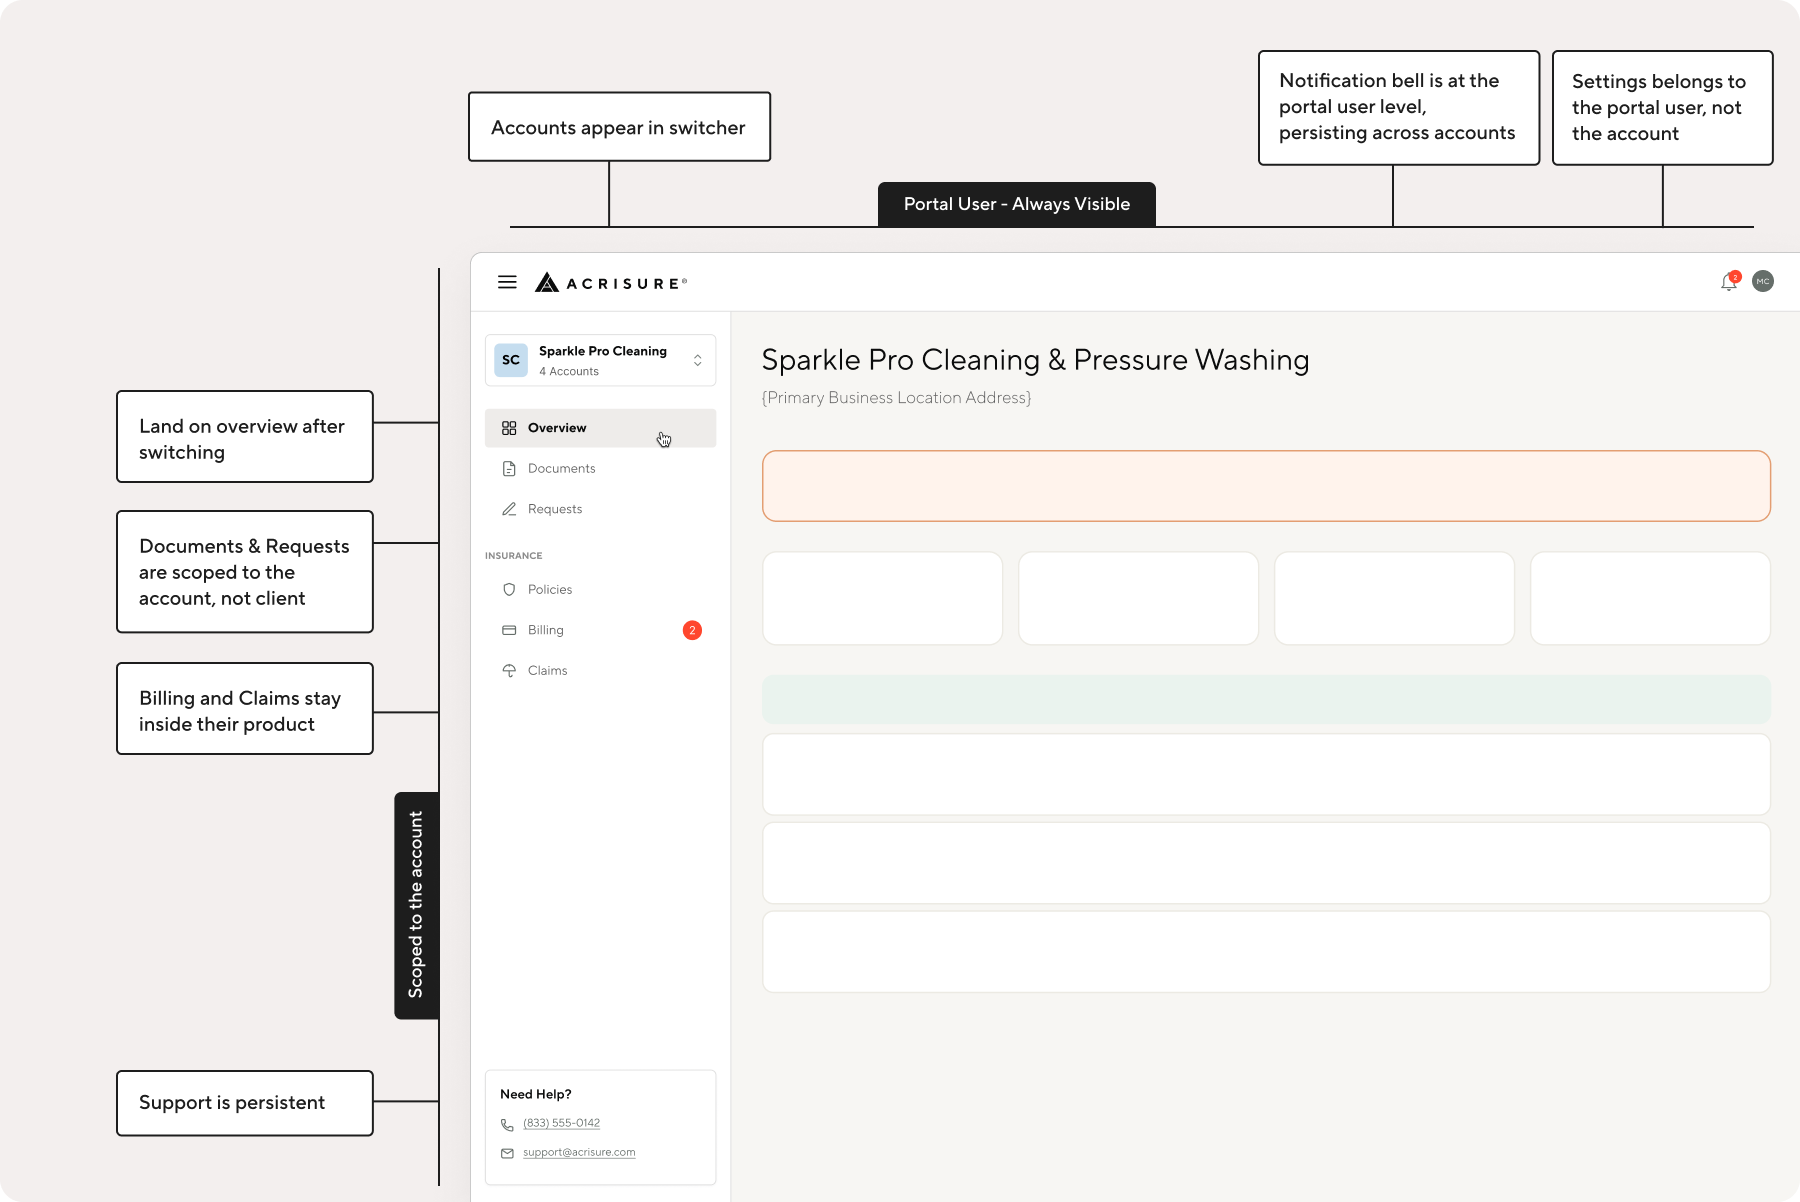
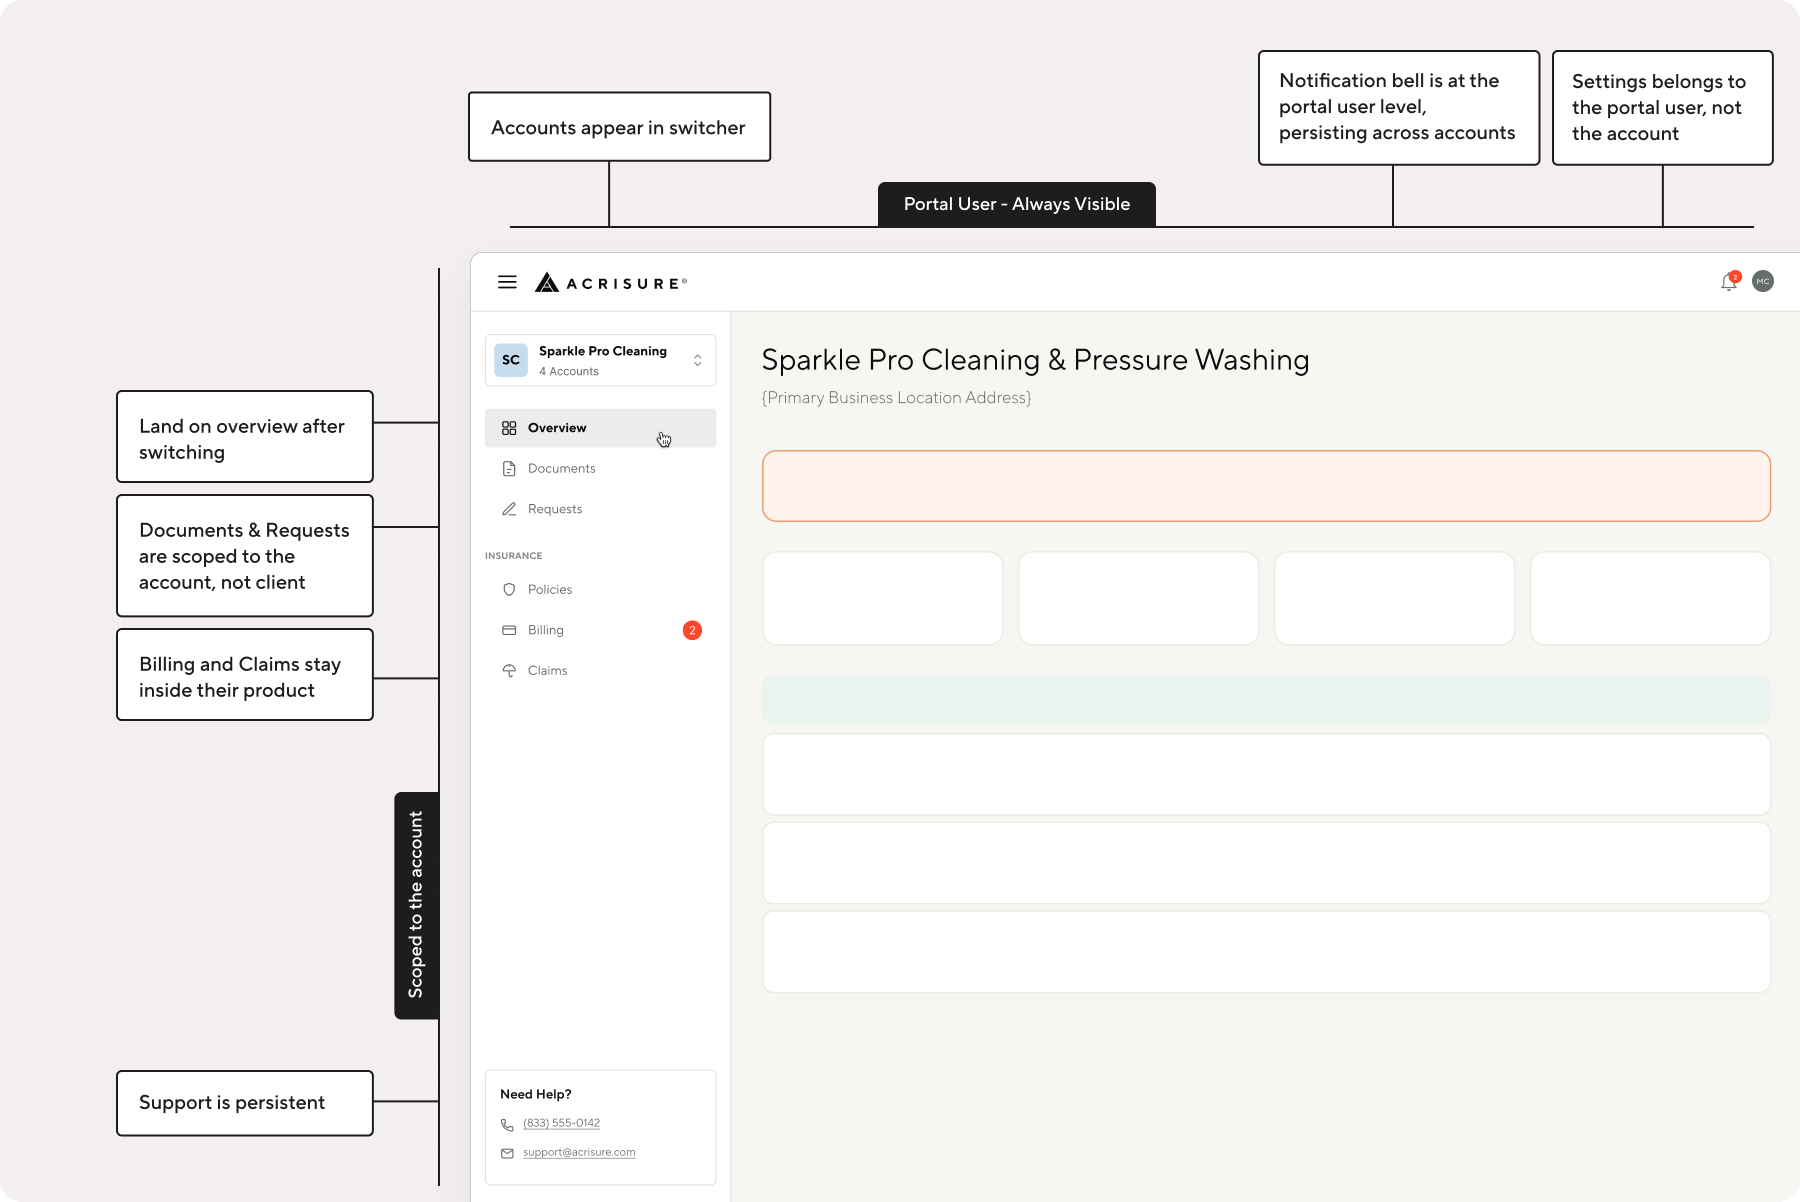
Add launch-nav screenshot to Decision Two; sync Client Portal punctuation to doc

Changed region(s): [[0.0622, 0.4002, 0.2178, 0.6156]]

diff --git a/client-portal.html b/client-portal.html
@@ -85,6 +85,8 @@
   .back-pill { display: inline-flex; align-items: center; gap: 6px; font-size: 13px; font-weight: 500; color: var(--ink); background: var(--pill-bg); border-radius: 100px; padding: 9px 18px; text-decoration: none; margin: 36px 0 0; }
 
   h2 { font-size: 23px; font-weight: 600; letter-spacing: -0.01em; margin: 56px 0 16px; }
+  h3 { font-size: 18px; font-weight: 600; letter-spacing: -0.005em; margin: 40px 0 10px; }
+  h2 + h3 { margin-top: 0; }
   h4 { font-size: 15px; font-weight: 600; margin: 0 0 4px; }
   p { font-size: 16px; line-height: 1.7; color: var(--ink); margin-bottom: 16px; }
   p.soft { color: var(--ink-soft); }
@@ -269,7 +271,7 @@
 
 
     <h2>Decision One: Policy Archetype Models</h2>
-    <p>Acrisure's portal needs to show hundreds of distinct policy types: Homeowners, Auto, BOP, Workers' Comp, and more. Designing each one from scratch meant new design work every time a policy type got added.</p>
+    <p>Acrisure's portal needs to show hundreds of distinct policy types, Homeowners, Auto, BOP, Workers' Comp, and more. Designing each one from scratch meant new design work every time a policy type got added.</p>
     <p>So I built a system instead: coverage breaks down into five structural archetypes based on how it attaches to whatever it covers, one reusable pattern per archetype instead of one-off work per policy type, saving both design and engineering time as new products get added.</p>
 
     <div class="carousel-wrap">
@@ -296,33 +298,37 @@
       <div class="h-line">Employee Benefits launched later and slotted directly into the People Centric archetype with no new design work required. It's the clearest evidence the model wasn't just built for what existed at the time.</div>
     </div>
 
-    <h2>Decision Two: The Fast Navigation Tradeoff</h2>
+    <h2>Decision Two: Borrowing the Navigation, Then Redesigning It</h2>
+    <h3>The tradeoff</h3>
     <p>Given the timeline, I launched on Acrisure's existing design system rather than build new navigation infrastructure. My manager and PM agreed with the call at the time, and given the deadline, it was the right one. It just meant <strong>the nav wasn't built for what came next</strong>.</p>
 
-    <h2>What Broke After Launch</h2>
+    <img class="screen-photo-wide" src="assets/Portal_Study_Body_003a.png" alt="The Acrisure client portal as it launched: the desktop dashboard (Welcome, John, personal products) with the slide-out navigation menu open, listing Account &amp; Privacy, Explore Personal Solutions, Explore Business Solutions, Acrisure.com, and Log Out.">
+
+    <h3>What broke after launch</h3>
     <p>Three things surfaced the cost of that tradeoff, close together in time:</p>
     <ul class="decision-list case-bullets">
-      <li><strong>Leadership wanted to vision-cast.</strong> Our design manager wanted to imagine where the portal could go next: payroll, mortgages, things we weren't even sure were feasible yet. It became clear fast that the borrowed navigation couldn't hold that kind of ambition, even hypothetically.</li>
+      <li><strong>Leadership wanted to vision-cast.</strong> Our design manager wanted to imagine where the portal could go next, payroll, mortgages, things we weren't even sure were feasible yet. It became clear fast that the borrowed navigation couldn't hold that kind of ambition, even hypothetically.</li>
       <li><strong>A persona showed up that nobody had planned for.</strong> Wealth managers, who manage several clients' accounts instead of their own.</li>
       <li><strong>Product needed things the structure had no place for.</strong> A real split between account-level and policy-level documents, and space for self-service tools and risk resources beyond a flat list of policies.</li>
     </ul>
 
-    <h2>Decision Three: The Navigation Framework</h2>
-    <p>I led the redesign, with a second designer pressure-testing my thinking the whole way. <strong>I used Claude throughout</strong>: competitive reviews of other portals, checking my structure against established UX research, and quickly iterating IA options before landing on the final one.</p>
+    <h3>The redesign</h3>
+    <p>I drove the navigation framework, with a second designer pressure-testing my thinking the whole way. <strong>I used Claude throughout</strong>: competitive reviews of other portals, checking my structure against established UX research, and quickly iterating IA options before landing on the final one.</p>
     <p>Before designing anything, I got the team aligned on shared language: what we meant by Portal User, Account, Product, and Access level. I also scoped one data issue, duplicate client records for the same business, out of the project entirely. That's a problem for engineering to solve, not something a navigation redesign could fix.</p>
 
     <img class="screen-photo" src="assets/client-portal-principles.png" alt="Four design principles: Account-first (one account in view at a time, no cross-account confusion), Same identity, new context (topbar carries identity, sidebar carries account context), Content earns the nav (nothing placeholder or half-finished gets a nav slot), and Scalable by default (sidebar over tab bar, so it grows as new products are added).">
 
-    <p>To test the structure, I used a scenario instead of reasoning about it in the abstract: Marcus Chen, a client juggling three businesses and a personal policy, all logging in on one Monday morning. The wealth manager persona fit the same model: one identity with several accounts underneath it, no new rule needed.</p>
+    <img class="screen-photo-wide" src="assets/Portal_Study_Body_003.png" alt="Annotated portal screen. A Portal User level that is always visible holds the account switcher, the notification bell and settings. Below it, the account-scoped sidebar holds Overview, Documents and Requests, plus Policies, Billing and Claims under Insurance, with support persistent at the bottom.">
+
+    <p>To test the structure, I used a scenario instead of reasoning about it in the abstract: Marcus Chen, a client juggling three businesses and a personal policy, all logging in on one Monday morning. The wealth manager persona fit the same model, one identity with several accounts underneath it, no new rule needed.</p>
 
     <div class="highlight">
       <div class="h-label"><span class="spark">✦</span> Field validation</div>
-      <div class="h-line">An advisor who manages insurance for several small-business clients described almost exactly this pattern: working inside one client's account at a time, with clients who don't want Acrisure contacting them directly at all.</div>
+      <div class="h-line">An advisor who manages insurance for several small-business clients described almost exactly this pattern, working inside one client's account at a time, with clients who don't want Acrisure contacting them directly at all.</div>
     </div>
 
-    <img class="screen-photo-wide" src="assets/Portal_Study_Body_003.png" alt="Annotated portal screen. A Portal User level that is always visible holds the account switcher, the notification bell and settings. Below it, the account-scoped sidebar holds Overview, Documents and Requests, plus Policies, Billing and Claims under Insurance, with support persistent at the bottom.">
 
-    <p>That same structure resolved both open product requests (the document split and the new self-service and risk resources) without needing anything bolted on afterward.</p>
+    <p>That same structure resolved both open product requests, the document split and the new self-service and risk resources, without needing anything bolted on afterward.</p>
 
     <p>I presented this work at a leadership offsite about where the portal was headed. Afterward, our Head of Product told me directly:</p>
 
